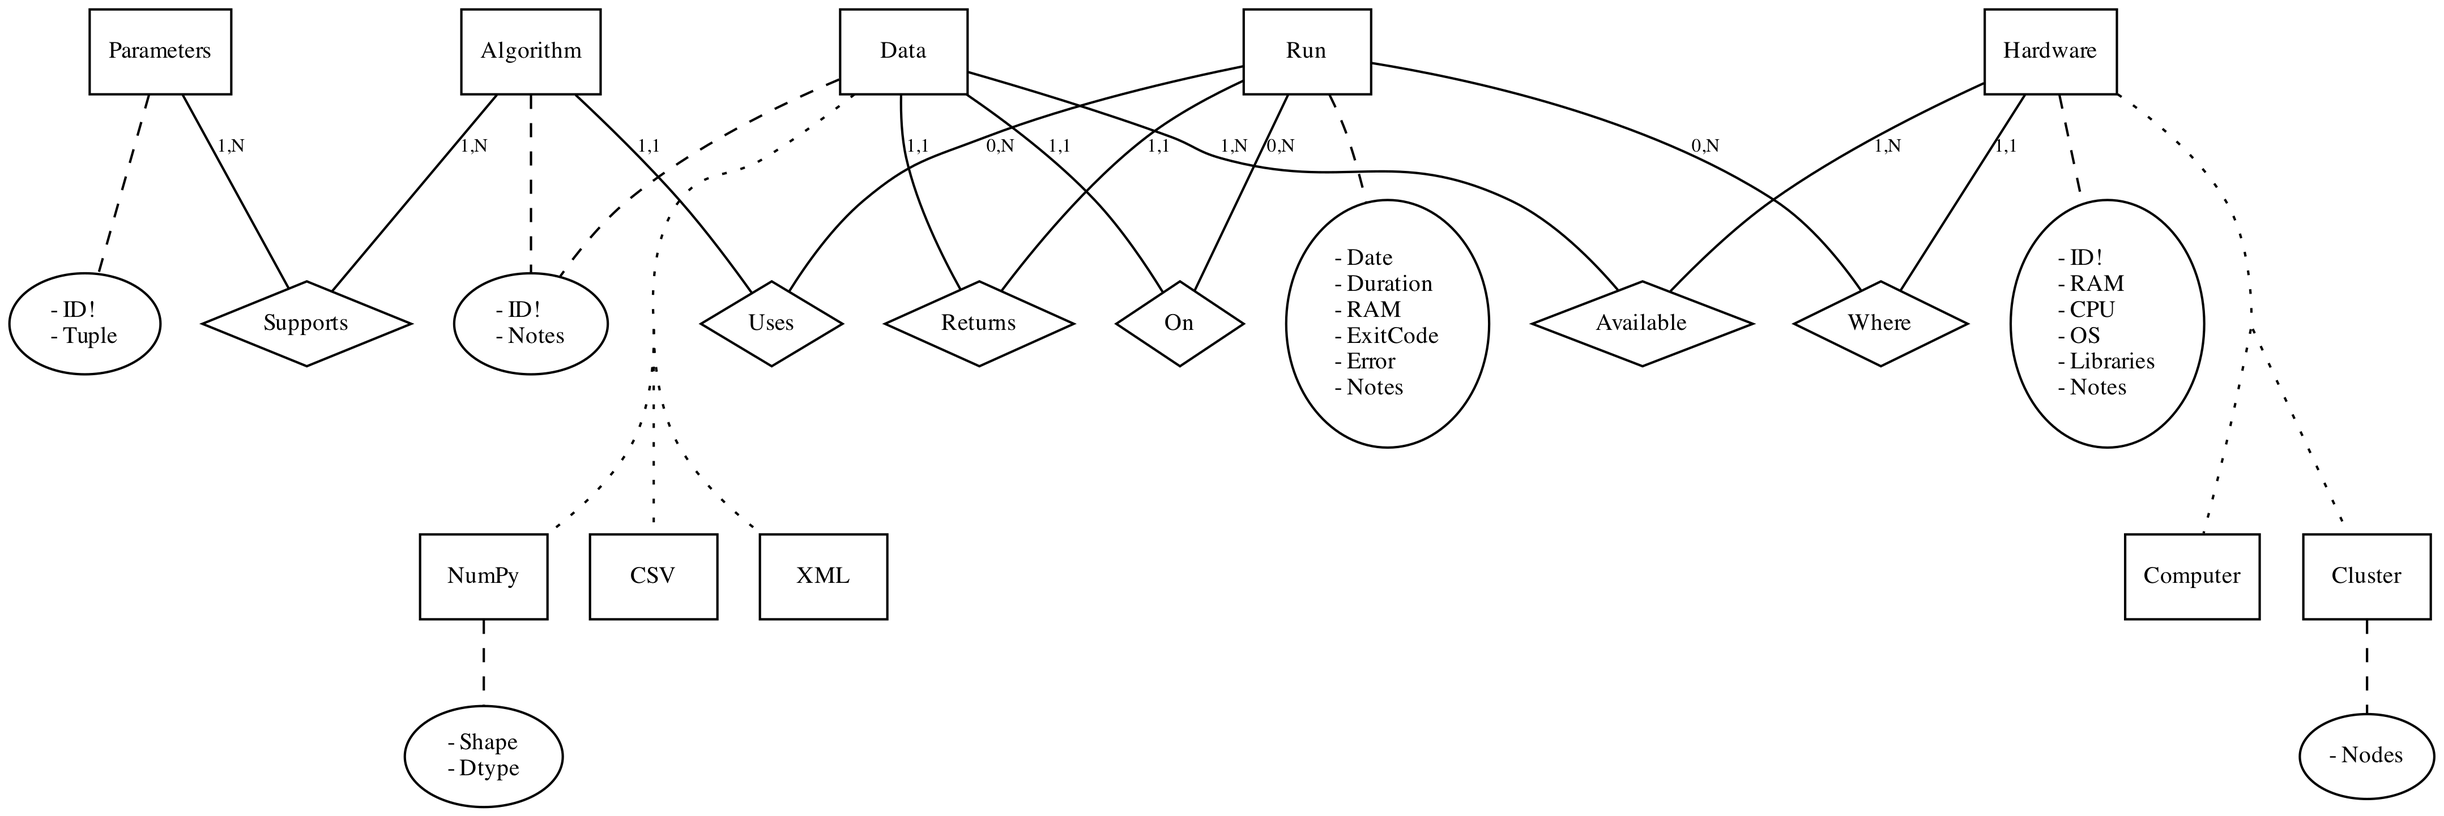
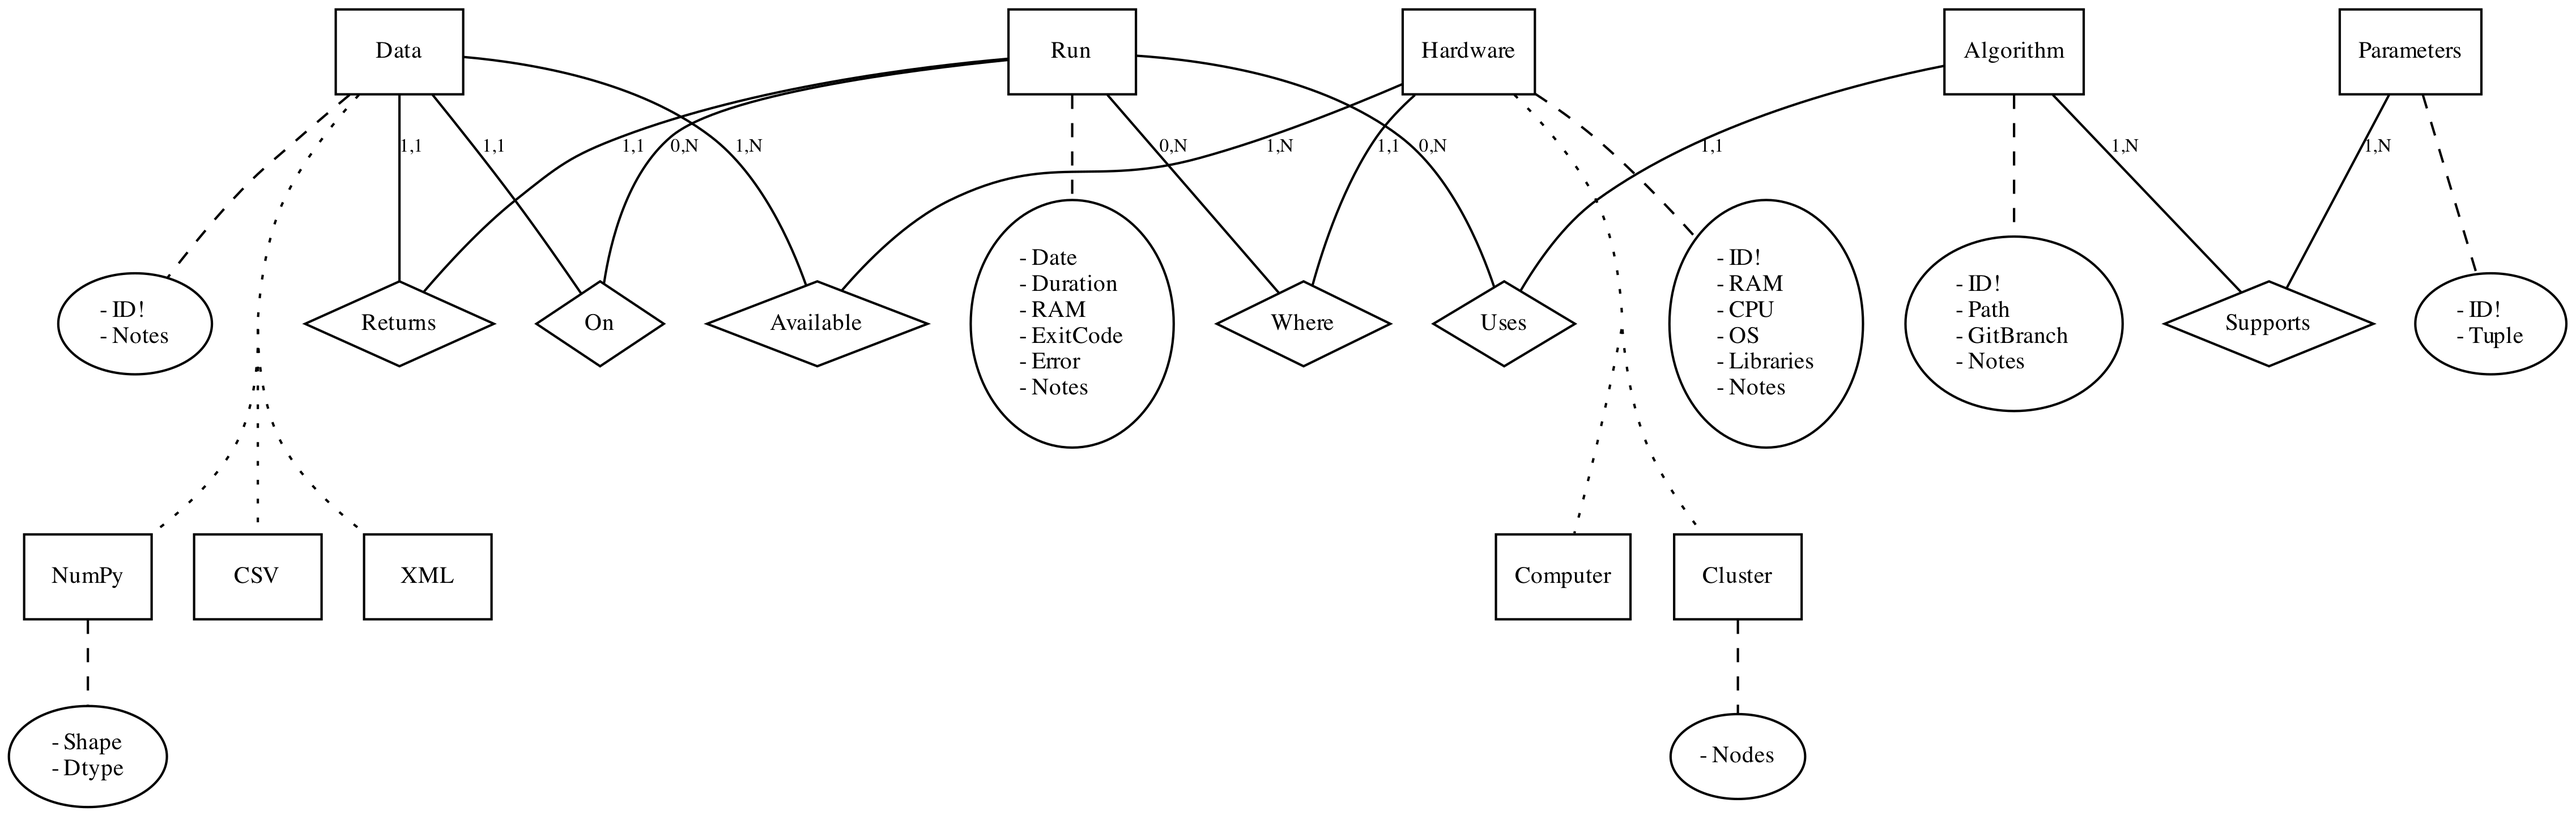
nuovi attributi per Algorithm

diff --git a/concettuale.py b/concettuale.py
@@ -55,7 +55,7 @@ make_attributes('Hardware', ['ID!', 'RAM', 'CPU', 'OS', 'Libraries', 'Notes'])
 make_attributes('Parameters', ['ID!', 'Tuple'])
 make_attributes('Cluster', ['Nodes'])
 make_attributes('NumPy', ['Shape', 'Dtype'])
-make_attributes('Algorithm', ['ID!', 'Notes'])
+make_attributes('Algorithm', ['ID!', 'Path', 'GitBranch', 'Notes'])
 
 # relations
 make_relation('Supports', 'Parameters', 'Algorithm', (1,'N'), (1,'N'))
